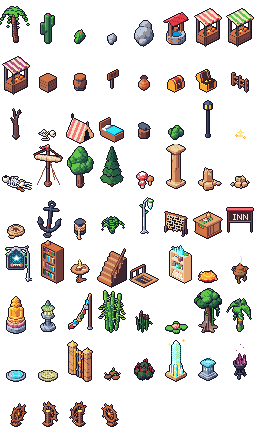
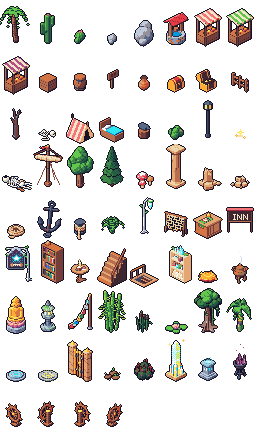
Fix the ship's wheel views and add per-placement decor facing
The wheel model faced across the ship and its views were ordered
against the board's rotation. Views now follow the board (derived from
the renderer's camera: grid +x = world +z, grid +y = world +x), and the
new `decorDir` map layer (N/E/S/W) turns single placements of
directional decor.

diff --git a/src/game/board/BoardView.ts b/src/game/board/BoardView.ts
@@ -7,7 +7,7 @@ import type { Piece } from "../../core/state/types";
 import { DIR_VEC, dirFromStep, type Dir, type Pos } from "../../core/util/grid";
 import { LAYER } from "../../engine/iso";
 import { IsoMapView, type IsoCellSource, type OverlayCell } from "../../engine/iso/IsoMapView";
-import { cutSquare } from "../../engine/iso/shapes";
+import { cutSquare, viewFrames } from "../../engine/iso/shapes";
 import type { Corner, TerrainDef } from "../../core/data/types";
 import { CharSprite } from "../../engine/sprites/CharSprite";
 import { CURSOR_KEY, ICONS_KEY, UI_DEPTH } from "../../engine/ui/widgets";
@@ -76,9 +76,13 @@ function gangways(g: ReturnType<typeof grid>, cell: Pos): number[] {
   });
 }
 
-/** Frames of a directional decor, one per quarter turn. */
-function decorViews(d: { frame: number; views?: number }): number[] {
-  return Array.from({ length: d.views ?? 1 }, (_, i) => d.frame + i);
+/** Quarter turns from the default facing S (the board turns S → W → N → E). */
+const FACING_TURNS: Record<Dir, number> = { S: 0, W: 1, N: 2, E: 3 };
+
+/** Frames of a directional decor per board rotation, turned to face `dir`. */
+function decorViews(d: { frame: number; views?: number }, dir: Dir = "S"): number[] {
+  const frames = Array.from({ length: d.views ?? 1 }, (_, i) => d.frame + i);
+  return viewFrames(frames, FACING_TURNS[dir] * (frames.length / 4));
 }
 
 /** The flat surface (sea) drawn under a hull at height 0. */
@@ -231,7 +235,7 @@ export class BoardView {
         fill: t.fill ?? t.frame,
         sink: t.sink ?? (t.frames ? 2 : 0),
         decor: cell.decor ? chip.decor[cell.decor].frame : undefined,
-        ...(cell.decor && chip.decor[cell.decor].views ? { decorViews: decorViews(chip.decor[cell.decor]) } : {}),
+        ...(cell.decor && chip.decor[cell.decor].views ? { decorViews: decorViews(chip.decor[cell.decor], cell.decorDir) } : {}),
         ...(cell.overhead ? { overhead: overheadSource(chip, cell) } : {}),
         ...(cell.cut ? { outline: cutSquare(cell.cut.map((k) => CORNERS[k])) } : {}),
         ...(t.flare ? { flare: t.flare } : {}),

diff --git a/src/core/board/grid.ts b/src/core/board/grid.ts
@@ -1,6 +1,6 @@
 import type { Database } from "../data/database";
 import type { ChipsetDef, Corner, MapDef, TerrainDef } from "../data/types";
-import type { Pos } from "../util/grid";
+import type { Dir, Pos } from "../util/grid";
 import { key } from "../util/grid";
 
 export interface Cell {
@@ -17,6 +17,8 @@ export interface Cell {
   overhead?: { terrain: string; top: number };
   /** Corners cut off along the diagonals (§5.9): a half cell or a point – purely visual, not walkable. */
   cut?: Corner[];
+  /** Which way a directional decor faces (map layer `decorDir`, default S). */
+  decorDir?: Dir;
 }
 
 /** Levels of open space under an overhead structure (a doorway ≈ a character's height, 4 × 8 px). */
@@ -51,6 +53,7 @@ export class BoardGrid implements GridView {
     const overRows = splitRows(map.layers.overhead ?? "");
     const overHeightRows = splitRows(map.layers.overheadHeight ?? "");
     const shapeRows = splitRows(map.layers.shape ?? "");
+    const dirRows = splitRows(map.layers.decorDir ?? "");
     this.height = terrainRows.length;
     this.width = Math.max(0, ...terrainRows.map((r) => r.length));
 
@@ -71,6 +74,8 @@ export class BoardGrid implements GridView {
         const shapeCh = shapeRows[y]?.[x];
         const shape = shapeCh && shapeCh !== "." ? map.legend.shapes?.[shapeCh] : undefined;
         if (shapeCh && shapeCh !== "." && !shape) throw new Error(`Map ${map.id}: unknown shape "${shapeCh}" at ${x},${y}`);
+        const dirCh = dirRows[y]?.[x];
+        if (dirCh && dirCh !== "." && !"NESW".includes(dirCh)) throw new Error(`Map ${map.id}: decorDir must be N/E/S/W, got "${dirCh}" at ${x},${y}`);
         this.cells.set(key({ x, y }), {
           x,
           y,
@@ -81,6 +86,7 @@ export class BoardGrid implements GridView {
           walkable: terrain.walkable && !decor?.blocks && !shape,
           surface: terrain.surface,
           ...(shape ? { cut: shape.cut } : {}),
+          ...(dirCh && dirCh !== "." ? { decorDir: dirCh as Dir } : {}),
         });
       }
     }

diff --git a/src/test/shapes.test.ts b/src/test/shapes.test.ts
@@ -1,5 +1,5 @@
 import { describe, expect, it } from "vitest";
-import { coversSide, cutSquare, flareMiters, flareOffset } from "../engine/iso/shapes";
+import { coversSide, cutSquare, flareMiters, flareOffset, viewFrames } from "../engine/iso/shapes";
 import { grid } from "../core/board/board";
 import { Game } from "../core/game";
 import { testDb } from "./helpers";
@@ -32,5 +32,26 @@ describe("shaped blocks (§5.9)", () => {
     expect(grid(game.ctx).cell({ x: 2, y: 1 })?.cut).toEqual(["NW", "NE"]);
     expect(grid(game.ctx).cell({ x: 2, y: 1 })?.walkable).toBe(false);
     expect(grid(game.ctx).cell({ x: 2, y: 2 })?.walkable).toBe(true);
+  });
+
+  it("directional decor: the view follows the board's rotation, turned by the placement's facing", () => {
+    const frames = [64, 65, 66, 67];
+    expect(viewFrames(frames, 0)).toEqual([64, 65, 66, 67]); // facing S: one view per quarter turn
+    expect(viewFrames(frames, 2)).toEqual([66, 67, 64, 65]); // facing N looks like S after two turns
+    const db = testDb({
+      deck: {
+        name: "Deck",
+        kind: "peaceful",
+        chipset: "desert",
+        battleback: "harbor",
+        legend: { terrain: { s: "sand" }, decor: { H: "ship_wheel" } },
+        layers: { terrain: "sss", decor: "H.H", decorDir: "N.." },
+        spawns: { start: { x: 1, y: 0 } },
+      },
+    });
+    const game = new Game(db, newGameState(db, 1));
+    game.enter("deck", "start");
+    expect(grid(game.ctx).cell({ x: 0, y: 0 })?.decorDir).toBe("N");
+    expect(grid(game.ctx).cell({ x: 2, y: 0 })?.decorDir).toBeUndefined(); // default S
   });
 });

diff --git a/src/core/data/types.ts b/src/core/data/types.ts
@@ -457,7 +457,10 @@ export interface TerrainDef {
 export interface DecorDef {
   name: string;
   frame: number;
-  /** Directional objects (a ship's wheel): one frame per quarter turn of the board, from `frame` on. */
+  /**
+   * Directional objects (a ship's wheel): one frame per quarter turn of the board, from `frame` on;
+   * `frame` shows it facing S (grid +y). Maps turn single placements with the `decorDir` layer.
+   */
   views?: number;
   blocks: boolean;
   /** Burns away when set on fire (and passes the fire on, §5.4). */
@@ -588,7 +591,8 @@ export interface MapDef {
    * roof above a door. Terrain chars (legend.terrain) and the level of its top; it starts above a
    * 4-level clearance (a character's height). Purely visual.
    */
-  layers: { terrain: string; height?: string; decor?: string; overhead?: string; overheadHeight?: string; shape?: string };
+  /** `decorDir`: N/E/S/W per cell – which way a directional decor (e.g. a ship's wheel) faces; default S. */
+  layers: { terrain: string; height?: string; decor?: string; overhead?: string; overheadHeight?: string; shape?: string; decorDir?: string };
   /**
    * `shapes`: chars of the `shape` layer → corners cut off along the diagonals (§5.9), e.g.
    * `{ cut: [NW] }` = a half cell, `{ cut: [NW, NE] }` = a point (a ship's bow). Shaped cells are

diff --git a/src/engine/iso/shapes.ts b/src/engine/iso/shapes.ts
@@ -138,3 +138,13 @@ export function flareMiters(cells: FlareCell[]): Map<string, Pt> {
 export function flareOffset(miters: Map<string, Pt>, wx: number, wy: number): Pt {
   return miters.get(vkey(wx, wy)) ?? [0, 0];
 }
+
+/**
+ * Frames of a directional object for each board rotation (index = quarter turns, as the view's
+ * transform turns grid directions (x, y) -> (-y, x)). `frames[k]` shows the object after k such
+ * turns in its default facing; an object placed turned by `facing` quarter turns starts there.
+ */
+export function viewFrames(frames: number[], facing: number): number[] {
+  const n = frames.length;
+  return frames.map((_, q) => frames[(((facing + q) % n) + n) % n]);
+}

diff --git a/public/assets/ASSETS.md b/public/assets/ASSETS.md
@@ -85,7 +85,7 @@ The stair risers are the side faces, so they show best when the stairs rise away
 0 palm, 1 cactus, 2 cactus_small, 3 rock_small, 4 rock_big, 5 well, 6 stall_red, 7 stall_green, 8 stall_purple, 9 crate, 10 barrel, 11 sign_post, 12 pot, 13 chest_closed, 14 chest_open, 15 fence, 16 dead_tree, 17 bones, 18 tent, 19 bed, 20 anvil, 21 bush, 22 lamp_post, 23 sparkle,
 24 skeleton (lying remains – also the look of dormant skeleton enemies), 25 mast, 26 tree_oak, 27 tree_pine, 28 mushroom, 29 pillar, 30 pillar_broken, 31 rubble, 32 rope_coil, 33 anchor, 34 bollard, 35 fern, 36 lantern_elf, 37 net_rack,
 38 counter, 39 inn_sign, 40 magic_sign, 41 bookshelf, 42 table, 43 stairs_up, 44 stairs_down, 45 scroll_shelf,
-46 pillow (meditation cushion), 47 incense_burner, 48 buddha_statue, 49 stone_lantern, 50 prayer_flags, 51 bamboo, 52 reeds, 53 lily_pad, 54 jungle_tree, 55 banana_plant, 56 switch_up (floor plate, raised), 57 switch_down (pressed), 58 gate_bars (closed gate, drawn by the board over gate cells), 59 seed_sprout, 60 bramble, 61 mirage_crystal, 62 pedestal, 63 dark_brazier, 64–67 ship_wheel (a directional object: one view per quarter turn of the board – 64 as placed, 65–67 after one, two, three turns; `views: 4` in the chipset).
+46 pillow (meditation cushion), 47 incense_burner, 48 buddha_statue, 49 stone_lantern, 50 prayer_flags, 51 bamboo, 52 reeds, 53 lily_pad, 54 jungle_tree, 55 banana_plant, 56 switch_up (floor plate, raised), 57 switch_down (pressed), 58 gate_bars (closed gate, drawn by the board over gate cells), 59 seed_sprout, 60 bramble, 61 mirage_crystal, 62 pedestal, 63 dark_brazier, 64–67 ship_wheel (a directional object: 64 faces S = grid +y, i.e. its wheel toward the viewer's lower left; 65–67 show it after one, two, three quarter turns of the board, which turns grid (x, y) → (−y, x); `views: 4` in the chipset). In the SDF renderer grid +x = world +z and grid +y = world +x, so view k = the model turned by rotY(k·90°).
 The sheet is 256×432 (9 rows).
 
 ## 6. System: `system/`

diff --git a/docs/game-design.md b/docs/game-design.md
@@ -166,7 +166,7 @@ Single cells marked with an **arrow pointing outwards**. Moving a hero onto an e
 Blocks are cubes by default. For things that shouldn't look blocky – a ship – two shape tools exist; both are purely visual and turn with the board like every block:
 - **Diagonal pieces**: a map's `shape` layer marks cells whose corners are cut off along the diagonals (`legend.shapes`, e.g. `{ cut: [NW] }` = a half cell, `{ cut: [NW, NE] }` = a point). A ship's bow is a point in front of two half cells. Shaped cells are not walkable.
 - **Hull flare**: a terrain with `flare` leans its outer sides inward toward the bottom, so the deck overhangs the hull; `underlay` draws the water under it, and `bulwark` adds a low wall along the outer edges – open where a walkable non-hull cell joins (the gangplank). Sides between two hull cells stay hidden, so a hull of many cells reads as one.
-- **Directional decor** (`views: 4`): objects that look different from each side (the ship's wheel) have one frame per quarter turn; the board shows the one for its rotation and switches half-way through a spin, like the characters.
+- **Directional decor** (`views: 4`): objects that look different from each side (the ship's wheel) have one frame per quarter turn; the board shows the one for its rotation and switches half-way through a spin, like the characters. The first frame faces S (grid +y); a map turns single placements with its `decorDir` layer (N/E/S/W per cell), so one object can be placed facing any way.
 
 ## 6. Patterns (movement, abilities, items)
 
